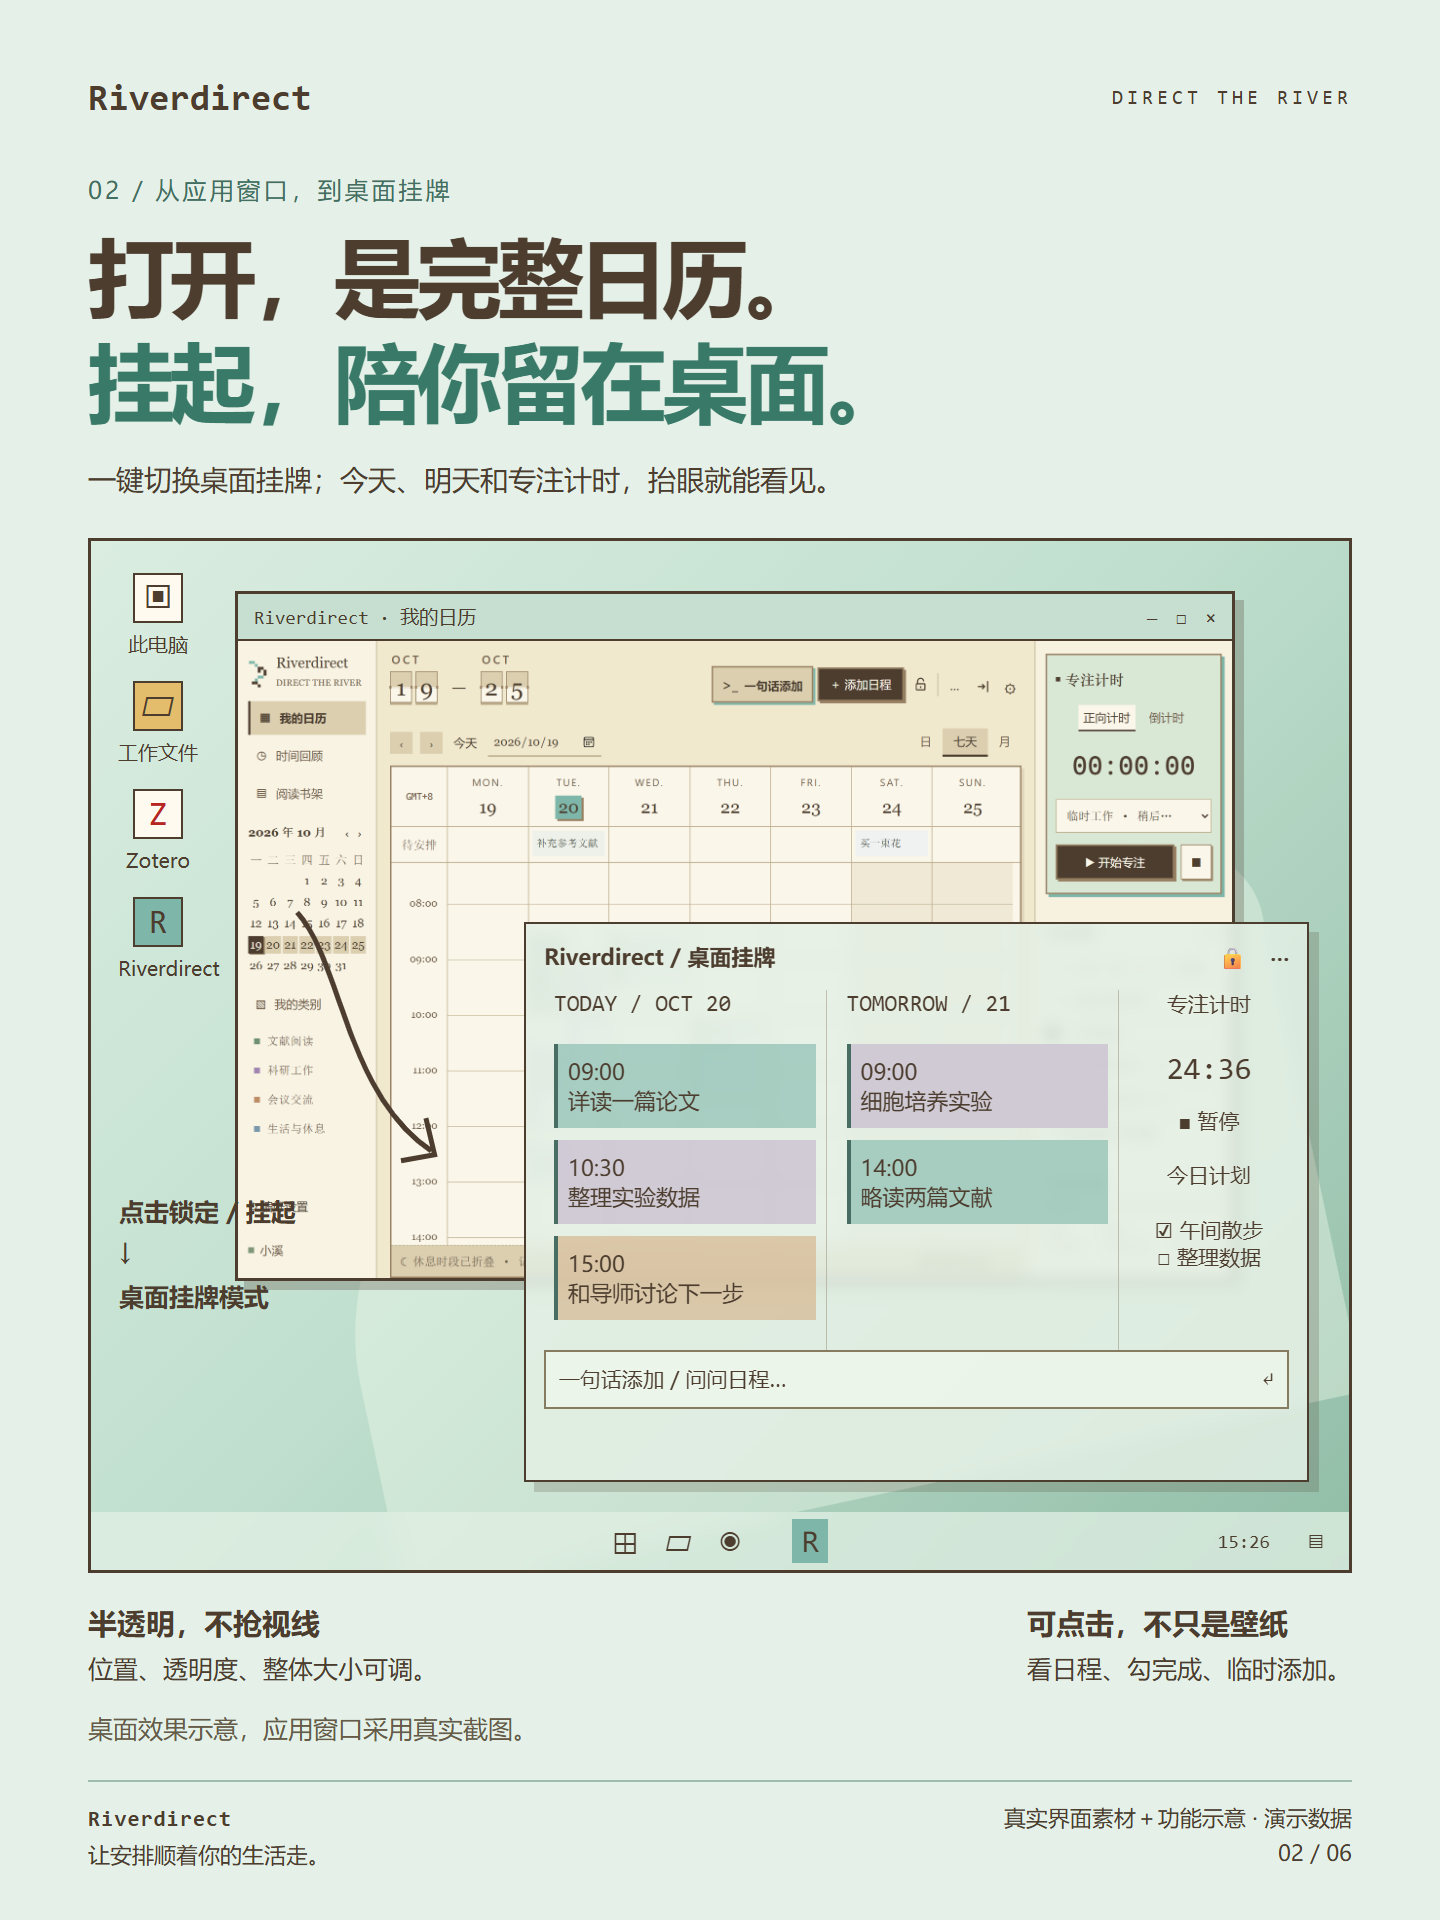
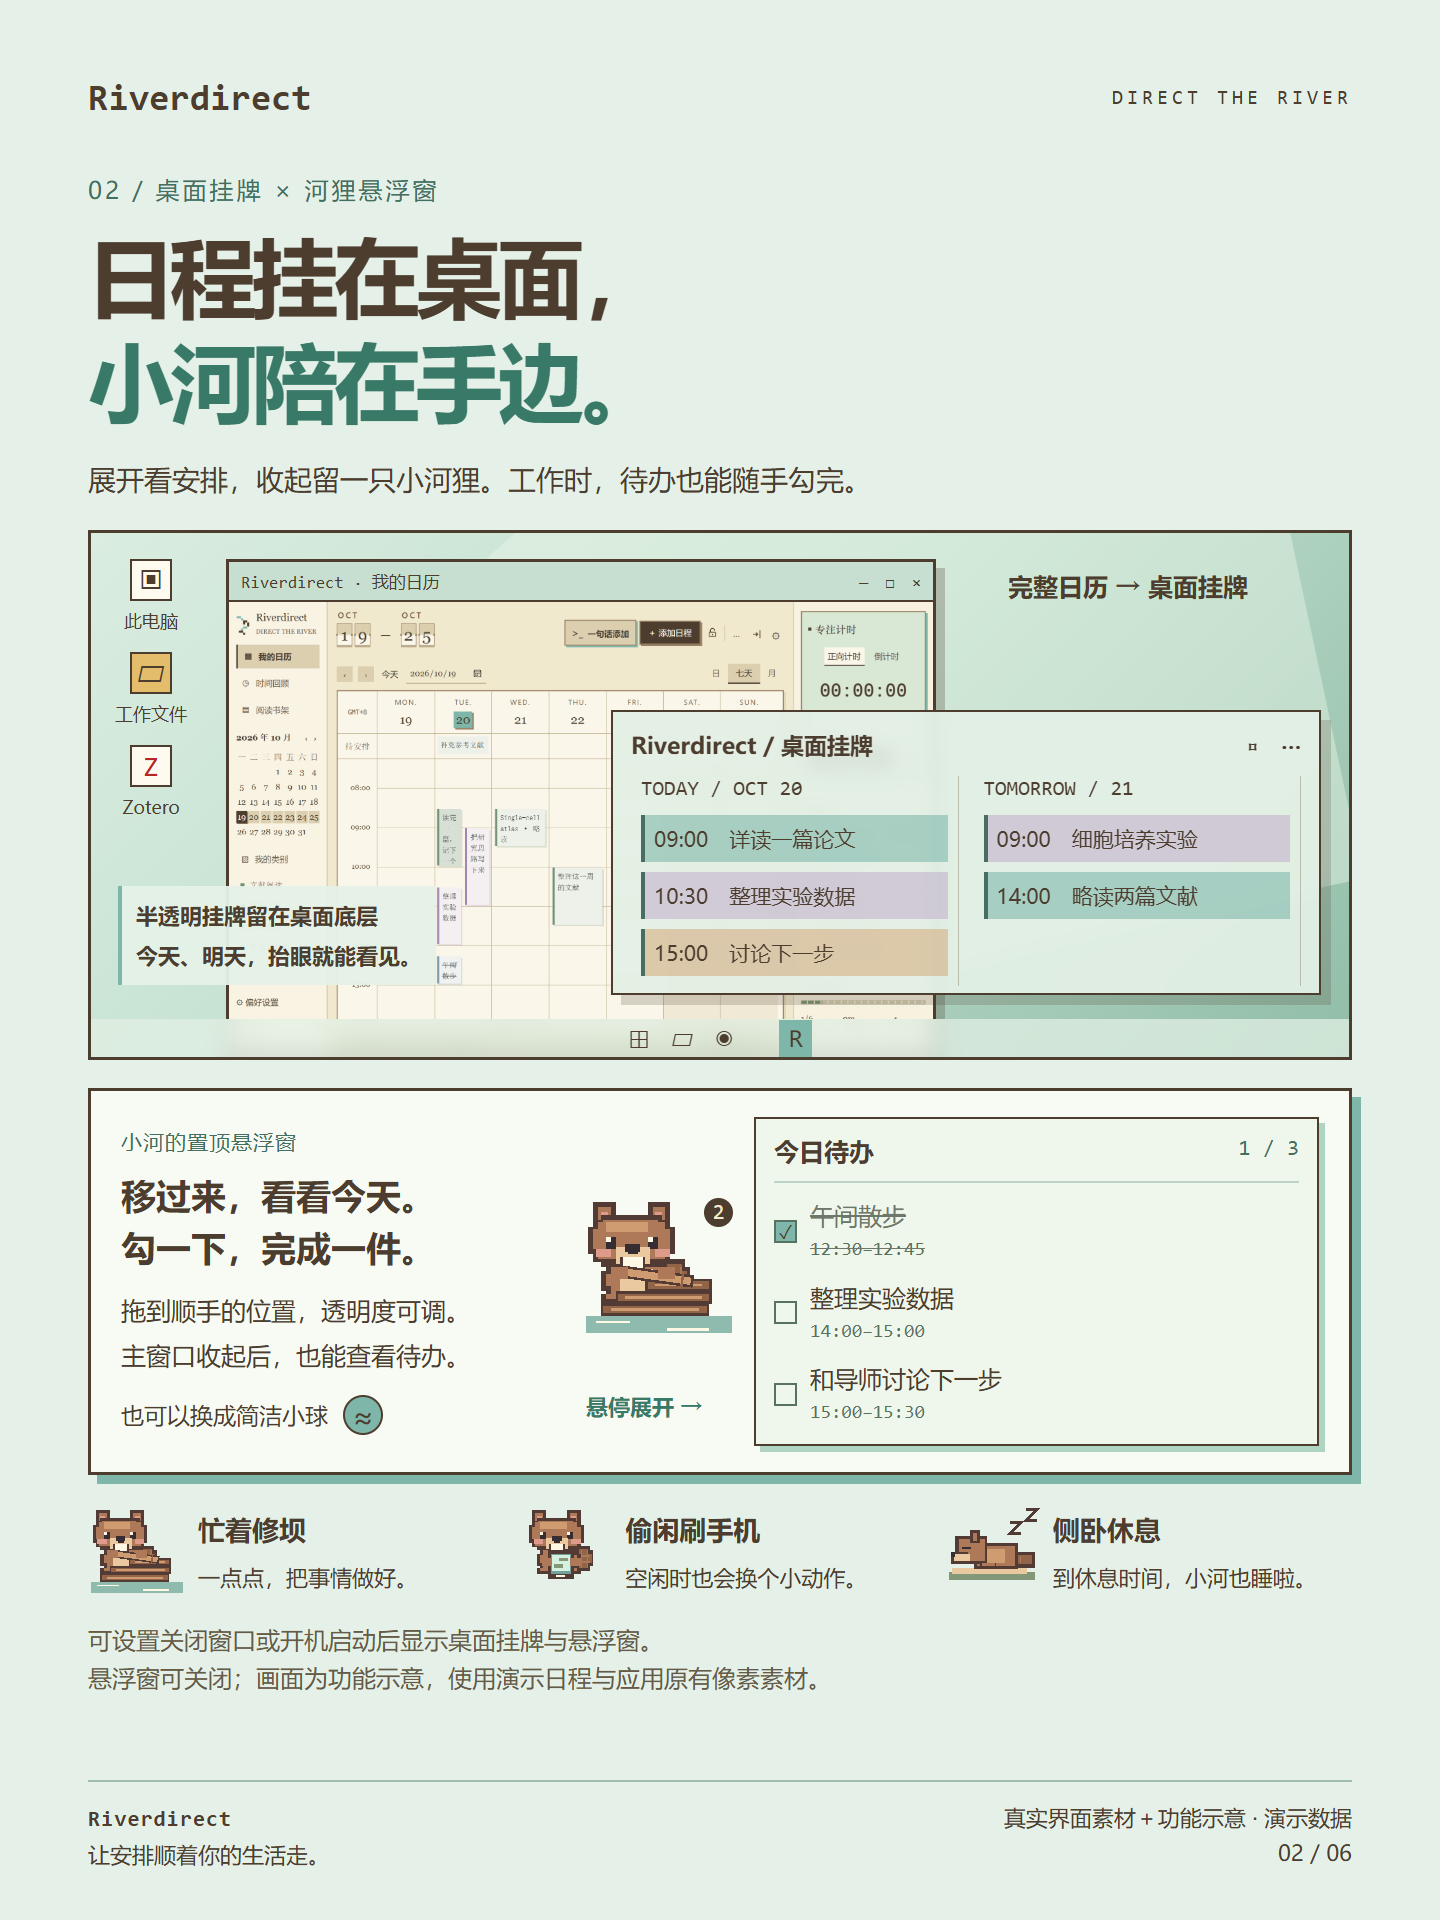
docs(promo): introduce floating beaver alongside desktop plaque

Changed region(s): [[0.0625, 0.0938, 0.9688, 0.9062]]

diff --git a/README.md b/README.md
@@ -18,9 +18,13 @@
 
 ## 日程留在桌面，随时看一眼
 
-电脑主窗口可切换为半透明桌面挂牌，查看今日与明日；也可开启小球或像素河狸悬浮待办，悬停查看、勾选完成。可设置关闭窗口后自动挂到桌面，以及开机启动后显示底层挂牌和置顶悬浮球。日历支持日、五天／七天和月视图，配有专注计时。
+电脑主窗口可切换为半透明桌面挂牌，查看今日与明日。
 
-![应用日历切换为桌面挂牌](images/02.png)
+想让小河陪在手边，可以开启置顶的像素河狸悬浮窗：鼠标移过去看今日待办，勾一下就完成；拖到顺手的位置，或换成简洁小球。小河会修坝、玩手机，到休息时间侧卧睡觉。
+
+可设置关闭窗口后自动挂到桌面，以及开机启动后显示底层挂牌和置顶悬浮球。日历支持日、五天／七天和月视图，配有专注计时。
+
+![桌面挂牌与可爱河狸悬浮窗，悬停查看今日待办并勾选完成](images/02.png)
 
 ## 给阅读安排一个位置
 
